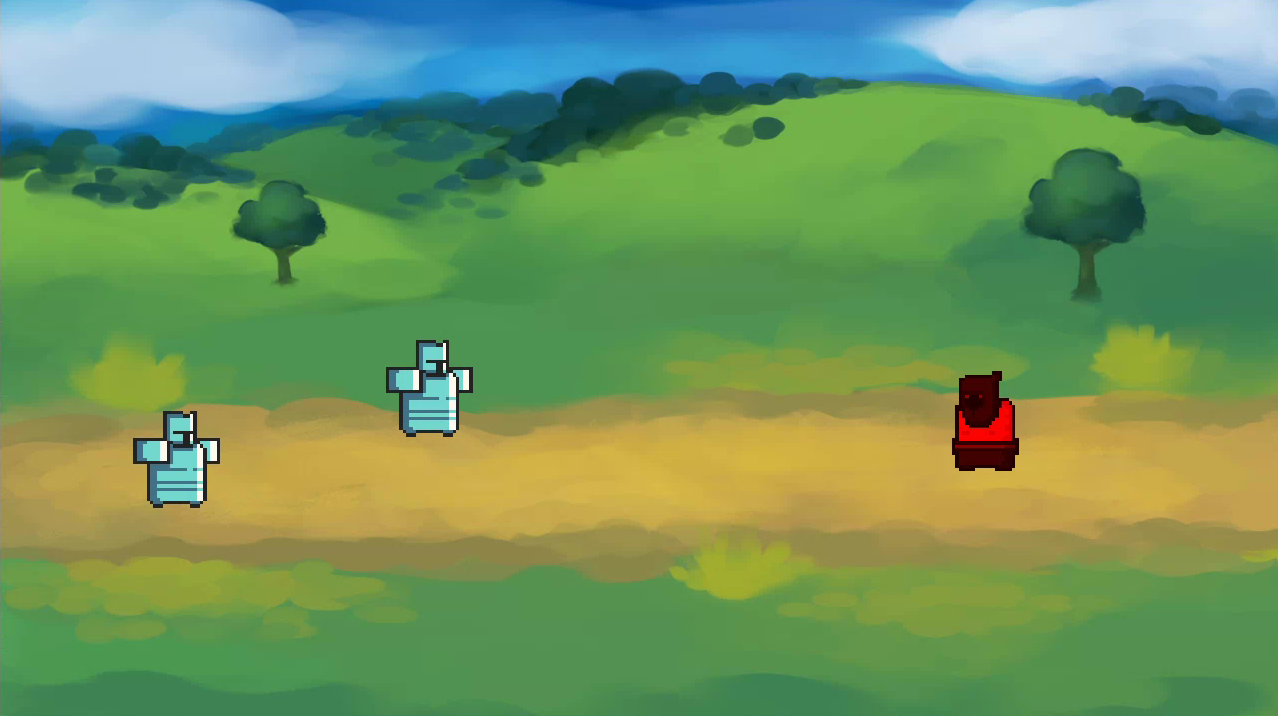
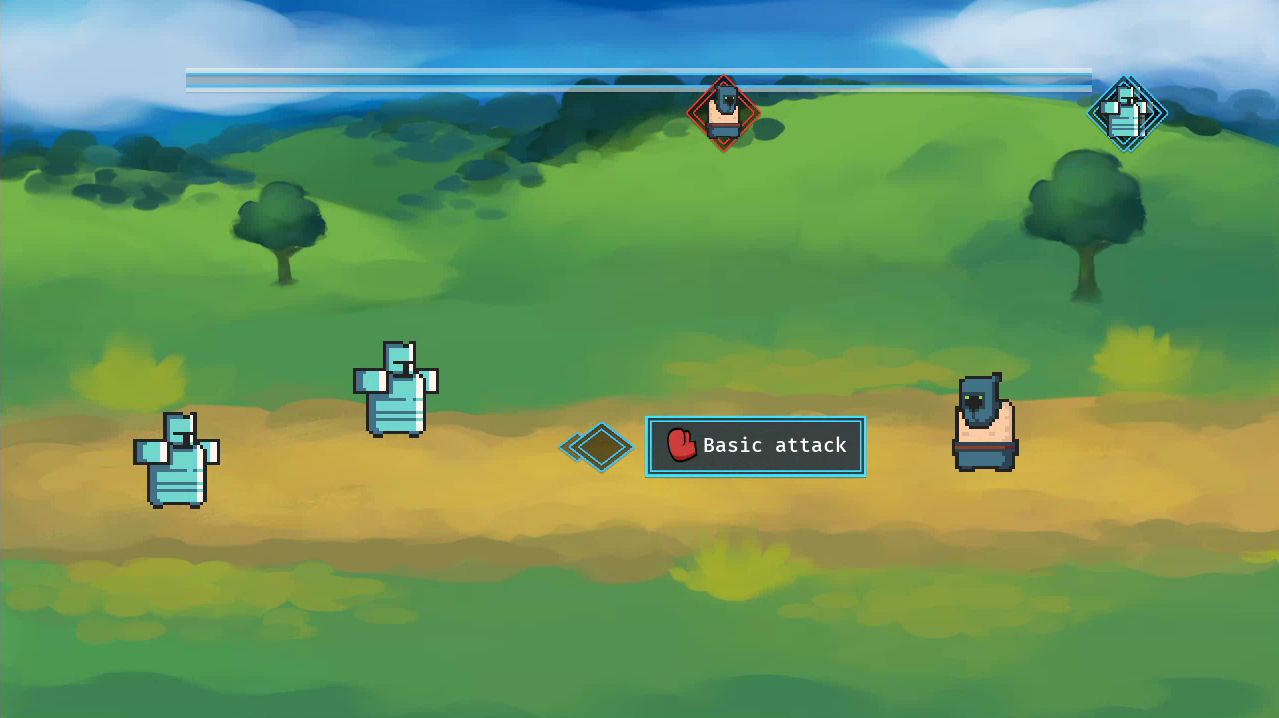
Turn bar.

diff --git a/Scripts/UI/UIBattlerIcon.cs b/Scripts/UI/UIBattlerIcon.cs
@@ -16,6 +16,10 @@ namespace battler.Scripts.UI
       set
       {
         icon = value;
+        if (iconNode == null)
+        {
+          iconNode = GetNode<TextureRect>("Icon");
+        }
         iconNode.Texture = icon;
       }
     }
@@ -42,15 +46,11 @@ namespace battler.Scripts.UI
     private readonly Dictionary<Types, Texture> types = new Dictionary<Types,Texture>();
     private TextureRect iconNode;
 
-    public override void _Ready()
+    public UIBattlerIcon()
     {
-      base._Ready();
-
       types[Types.Ally] = ResourceLoader.Load<Texture>("res://Assets/UI/portrait_bg_ally.png");
       types[Types.Player] = ResourceLoader.Load<Texture>("res://Assets/UI/portrait_bg_player.png");
       types[Types.Enemy] = ResourceLoader.Load<Texture>("res://Assets/UI/portrait_bg_enemy.png");
-
-      iconNode = GetNode<TextureRect>("Icon");
     }
 
     public void Snap(float ratio)

diff --git a/Scripts/UI/UITurnBar.cs b/Scripts/UI/UITurnBar.cs
@@ -7,7 +7,7 @@ namespace battler.Scripts.UI
   public class UITurnBar : Control
   {
     private readonly PackedScene battlerIcon = ResourceLoader.Load<PackedScene>(
-      $"{nameof(UIBattlerIcon)}.tscn");
+      $"res://Scenes/UI/{nameof(UIBattlerIcon)}.tscn");
 
     private TextureRect background;
     private AnimationPlayer animationPlayer;
@@ -28,7 +28,7 @@ namespace battler.Scripts.UI
         var icon = CreateIcon(type, battler.UIData.Texture);
 
         battler.Connect(nameof(Battler.ReadinessChanged), this,
-          nameof(OnBattler_ReadinessChanged), new Array{ icon });
+          nameof(OnBattler_ReadinessChanged), new Array { icon });
         background.AddChild(icon);
       }
     }

diff --git a/Scripts/CombatDemo.cs b/Scripts/CombatDemo.cs
@@ -1,0 +1,21 @@
+using battler.Scripts.UI;
+using Godot;
+
+namespace battler.Scripts
+{
+  public class CombatDemo : Node2D
+  {
+    private ActiveTurnQueue activeTurnQueue;
+    private UITurnBar uiTurnBar;
+
+    public override void _Ready()
+    {
+      base._Ready();
+
+      activeTurnQueue = GetNode<ActiveTurnQueue>("ActiveTurnQueue");
+      uiTurnBar = GetNode<UITurnBar>("UI/UITurnBar");
+
+      uiTurnBar.Setup(activeTurnQueue.Battlers);
+    }
+  }
+}

diff --git a/Scripts/ActiveTurnQueue.cs b/Scripts/ActiveTurnQueue.cs
@@ -40,6 +40,8 @@ namespace battler.Scripts
       }
     }
 
+    public IEnumerable<Battler> Battlers => battlers;
+
     private readonly List<Battler> partyMembers = new List<Battler>();
     private readonly List<Battler> opponents = new List<Battler>();
     
